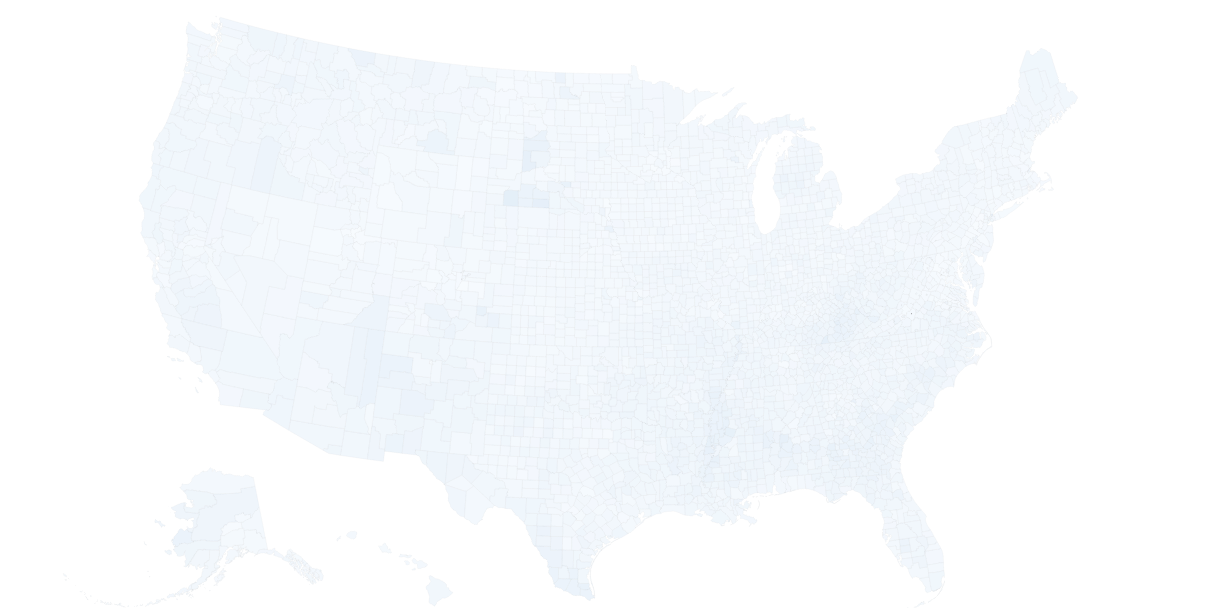
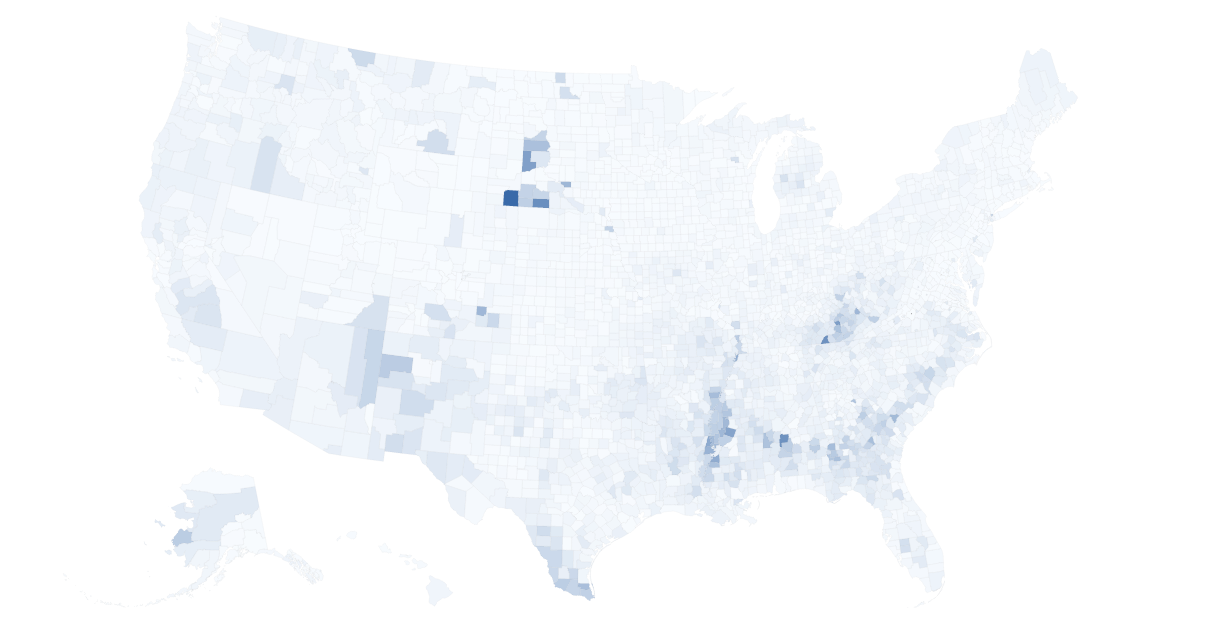
Fix power scale image/code

diff --git a/index.html b/index.html
@@ -93,7 +93,8 @@
             //     min = d3.min(all_values);
             // var color_scale = d3.scalePow()
             //                     .domain([min, max])
-            //                     .range(colors);
+            //                     .range([colors[0], colors[colors.length-1]])
+            //                     .exponent(3);
 
             // Check out the color scale
             console.log( color_scale(21) );
